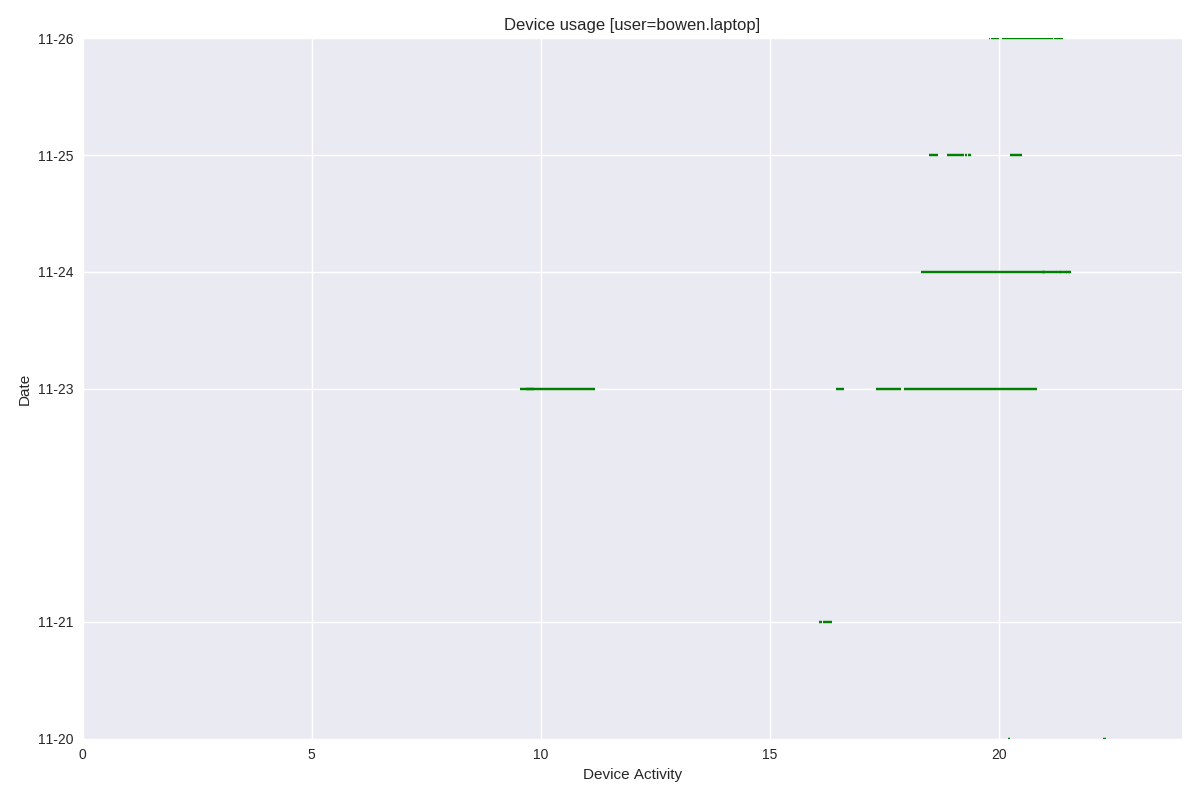
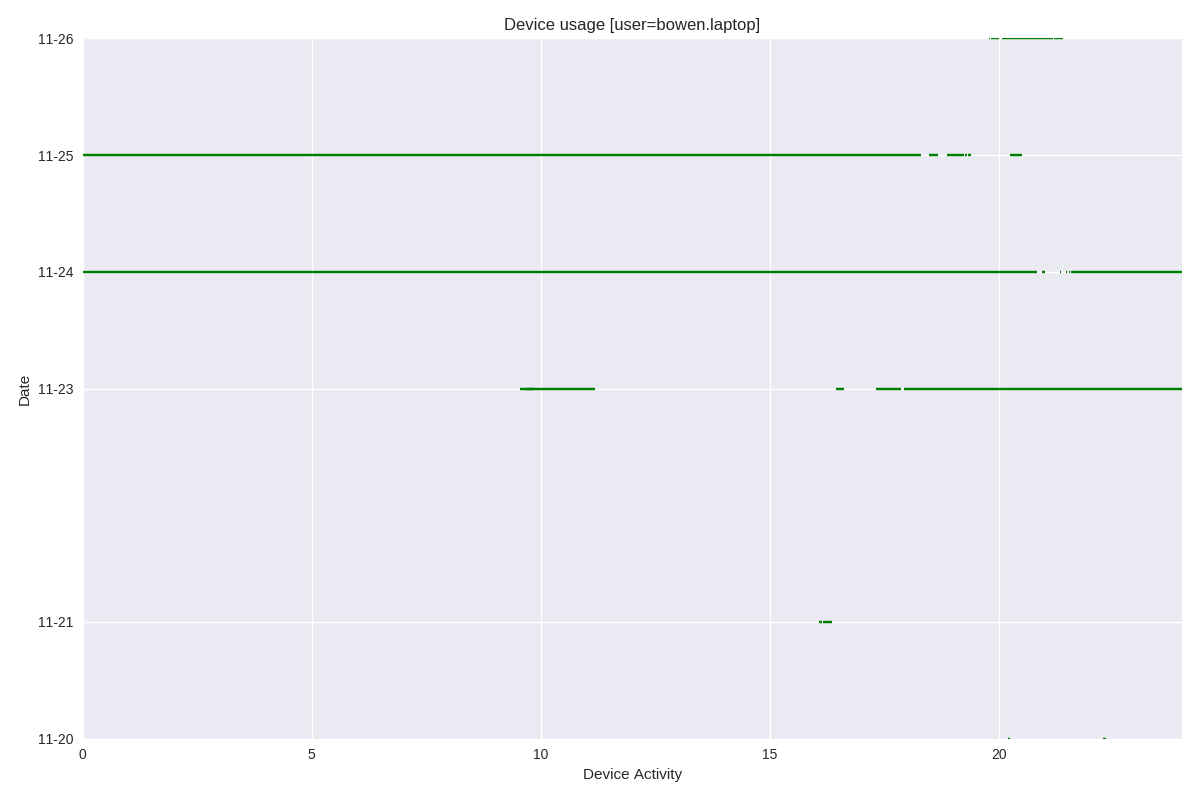
fixed bowen table

diff --git a/inter_event_time_analysis_activities.py b/inter_event_time_analysis_activities.py
@@ -67,7 +67,7 @@ def get_activities_inter_times():
 
             #plot_traces(beg, end, io, device.device_id)
             #plot_cdf_interval_times(io_iat, device.device_id)
-            if device.id == 12:
+            if device.id == 22:
                 mix_beg, mix_end = calculate_block_intervals(beg, end, io, 60)
                 plot_traces(mix_beg, mix_end, [], device.device_id)
 
@@ -93,13 +93,13 @@ def plot_traces(beg, end, io, user):
             cont = cont + 1
         else:
             print 'gaidasdhiuasdas'
-            print timst.day
-            print end_timst.day
+            print timst
+            print end_timst
             x_beg.append(timst.hour+timst.minute/60.0+timst.second/3600.0)
             x_end.append(23.99999)
             y.append(timst.date())
 
-            x_beg.append(00.00001)
+            x_beg.append(00.01)
             x_end.append(end_timst.hour+end_timst.minute/60.0+end_timst.second/3600.0)
             d += timedelta(days=1)
             y.append(d)
@@ -132,6 +132,7 @@ def plot_traces(beg, end, io, user):
         d = y[cont]
         if d.day == 24 or d.day == 25:
             print '======================='
+            print d.day
             print 'beg_t ' + str (x_beg[cont])
             print 'end_t ' + str (x_end[cont])
         cont = cont + 1
